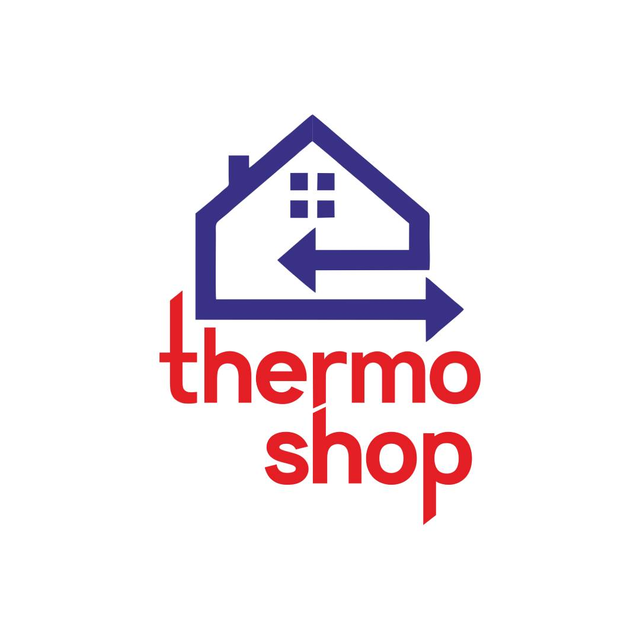
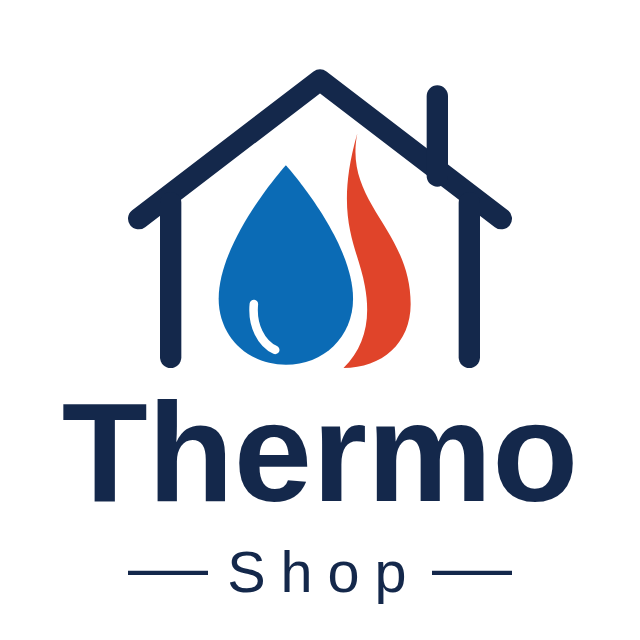
Add files via upload

diff --git a/index.html b/index.html
@@ -7,7 +7,7 @@
 <script src="https://telegram.org/js/telegram-web-app.js"></script>
 <link rel="preconnect" href="https://fonts.googleapis.com">
 <link rel="preconnect" href="https://fonts.gstatic.com" crossorigin>
-<link href="https://fonts.googleapis.com/css2?family=Archivo:wght@500;600;700;800&family=Inter:wght@400;500;600&display=swap" rel="stylesheet">
+<link href="https://fonts.googleapis.com/css2?family=Archivo:wght@500;600;700;800&family=Inter:wght@400;500;600&family=Montserrat:wght@500;800&display=swap" rel="stylesheet">
 <style>
   :root {
     --bg: #12181F;
@@ -79,7 +79,7 @@
     height: 68px;
     display: flex; align-items: center;
   }
-  .brand-logo img { height: 100%; width: auto; display: block; }
+  .brand-logo .lg { height: 100%; width: auto; aspect-ratio: 400 / 510; }
   .brand-name { font-size: 17px; font-weight: 700; font-family: 'Archivo', sans-serif; }
   .brand-sub { font-size: 11px; color: var(--text-dim); margin-top: 1px; }
 
@@ -316,11 +316,40 @@
     position: fixed; inset: 0; z-index: 100;
     background: #fff;
     display: flex; align-items: center; justify-content: center;
-    animation: splash-out 0.45s ease 1.1s forwards;
+    animation: splash-out 0.45s ease 3.5s forwards;
+    cursor: pointer;
   }
-  .splash img { width: min(46vw, 200px); height: auto; animation: splash-in 0.5s ease both; }
-  @keyframes splash-in { from { opacity: 0; transform: scale(0.92); } to { opacity: 1; transform: scale(1); } }
+  .splash.skip { display: none; }
+  .splash .lg { width: min(80vw, 420px); height: auto; }
   @keyframes splash-out { to { opacity: 0; visibility: hidden; } }
+  @media (prefers-reduced-motion: reduce) { .splash { animation-delay: 0.6s; } }
+
+  /* ---------- Logotip (animatsiyali) ---------- */
+  .lg { --lg-navy: #14284b; --lg-blue: #0b6bb5; --lg-red: #e0442a; overflow: visible; display: block; }
+  .lg .draw { stroke-dasharray: 1; stroke-dashoffset: 1; }
+  .lg .drop, .lg .flame, .lg .hl, .lg .t1, .lg .t2, .lg .ln { opacity: 0; }
+  .lg .drop, .lg .flame, .lg .flame-sway, .lg .t1, .lg .t2 { transform-box: fill-box; }
+  .lg .drop, .lg .flame, .lg .flame-sway { transform-origin: 50% 100%; }
+  .lg.play .h1 { animation: lg-draw .9s ease-out .1s forwards; }
+  .lg.play .h2, .lg.play .h3 { animation: lg-draw .5s ease-out .8s forwards; }
+  .lg.play .h4 { animation: lg-draw .4s ease-out 1.1s forwards; }
+  .lg.play .drop { animation: lg-drop .9s cubic-bezier(.2,1.4,.4,1) 1.3s forwards; }
+  .lg.play .flame { animation: lg-flame .9s cubic-bezier(.2,1.3,.4,1) 1.55s forwards; }
+  .lg.play .hl { animation: lg-fade .4s ease 2.1s forwards; }
+  .lg.play .flame-sway { animation: lg-sway 2.4s ease-in-out 2.6s infinite; }
+  .lg.play .t1 { animation: lg-rise .7s ease-out 2.0s forwards; }
+  .lg.play .ln { animation: lg-fade .5s ease 2.6s forwards; }
+  .lg.play .t2 { animation: lg-track 1s ease-out 2.6s forwards; }
+  .lg.static .draw { stroke-dashoffset: 0; }
+  .lg.static .drop, .lg.static .flame, .lg.static .hl, .lg.static .t1, .lg.static .t2, .lg.static .ln { opacity: 1; }
+  @keyframes lg-draw { to { stroke-dashoffset: 0; } }
+  @keyframes lg-drop { 0% { opacity: 0; transform: translateY(-70px) scale(.5); } 60% { opacity: 1; } 100% { opacity: 1; transform: none; } }
+  @keyframes lg-flame { 0% { opacity: 0; transform: scale(.2,.1); } 100% { opacity: 1; transform: none; } }
+  @keyframes lg-fade { to { opacity: 1; } }
+  @keyframes lg-sway { 0%,100% { transform: skewX(0) scaleY(1); } 50% { transform: skewX(-3deg) scaleY(1.04); } }
+  @keyframes lg-rise { from { opacity: 0; transform: translateY(24px); } to { opacity: 1; transform: none; } }
+  @keyframes lg-track { from { opacity: 0; letter-spacing: 34px; } to { opacity: 1; letter-spacing: 14px; } }
+  @media (prefers-reduced-motion: reduce) { .lg.play * { animation-duration: .01s !important; animation-delay: 0s !important; } }
 
   .top-actions { display: flex; align-items: center; gap: 8px; }
   .lang-btn {
@@ -378,11 +407,47 @@
 </head>
 <body>
 
-<div class="splash"><img src="images/logo.png" alt="Thermoshop"></div>
+<div class="splash" id="splash"><svg class="lg play" viewBox="0 0 600 600" role="img" aria-label="Thermo Shop">
+  <g fill="none" stroke="var(--lg-navy)" stroke-width="20" stroke-linecap="round" stroke-linejoin="round">
+    <polyline class="draw h1" pathLength="1" points="130,205 300,75 470,205"/>
+    <line class="draw h2" pathLength="1" x1="160" y1="190" x2="160" y2="335"/>
+    <line class="draw h3" pathLength="1" x1="440" y1="190" x2="440" y2="335"/>
+    <line class="draw h4" pathLength="1" x1="410" y1="90" x2="410" y2="165"/>
+  </g>
+  <g class="drop">
+    <path d="M268 155 C268 155 205 225 205 280 C205 316 233 342 268 342 C303 342 331 316 331 280 C331 225 268 155 268 155Z" fill="var(--lg-blue)"/>
+  </g>
+  <path class="hl" d="M238 285 C236 305 245 322 258 328" fill="none" stroke="#fff" stroke-width="8" stroke-linecap="round"/>
+  <g class="flame"><g class="flame-sway">
+    <path d="M335 125 C322 190 385 215 385 285 C385 322 358 345 322 345 C342 325 348 300 342 268 C336 232 312 205 335 125Z" fill="var(--lg-red)"/>
+  </g></g>
+  <text class="t1" x="300" y="470" text-anchor="middle" font-weight="800" font-size="132" fill="var(--lg-navy)" font-family="Montserrat,'Segoe UI',Arial,sans-serif">Thermo</text>
+  <line class="ln" x1="120" y1="537" x2="195" y2="537" stroke="var(--lg-navy)" stroke-width="4"/>
+  <line class="ln" x1="405" y1="537" x2="480" y2="537" stroke="var(--lg-navy)" stroke-width="4"/>
+  <text class="t2" x="304" y="555" text-anchor="middle" font-weight="500" font-size="54" letter-spacing="14" fill="var(--lg-navy)" font-family="Montserrat,'Segoe UI',Arial,sans-serif">Shop</text>
+</svg></div>
 
 <header class="topbar">
   <div class="brand">
-    <div class="brand-logo"><img src="images/logo.png" alt="Thermoshop"></div>
+    <div class="brand-logo"><svg class="lg static" viewBox="100 60 400 510" role="img" aria-label="Thermo Shop">
+  <g fill="none" stroke="var(--lg-navy)" stroke-width="20" stroke-linecap="round" stroke-linejoin="round">
+    <polyline class="draw h1" pathLength="1" points="130,205 300,75 470,205"/>
+    <line class="draw h2" pathLength="1" x1="160" y1="190" x2="160" y2="335"/>
+    <line class="draw h3" pathLength="1" x1="440" y1="190" x2="440" y2="335"/>
+    <line class="draw h4" pathLength="1" x1="410" y1="90" x2="410" y2="165"/>
+  </g>
+  <g class="drop">
+    <path d="M268 155 C268 155 205 225 205 280 C205 316 233 342 268 342 C303 342 331 316 331 280 C331 225 268 155 268 155Z" fill="var(--lg-blue)"/>
+  </g>
+  <path class="hl" d="M238 285 C236 305 245 322 258 328" fill="none" stroke="#fff" stroke-width="8" stroke-linecap="round"/>
+  <g class="flame"><g class="flame-sway">
+    <path d="M335 125 C322 190 385 215 385 285 C385 322 358 345 322 345 C342 325 348 300 342 268 C336 232 312 205 335 125Z" fill="var(--lg-red)"/>
+  </g></g>
+  <text class="t1" x="300" y="470" text-anchor="middle" font-weight="800" font-size="132" fill="var(--lg-navy)" font-family="Montserrat,'Segoe UI',Arial,sans-serif">Thermo</text>
+  <line class="ln" x1="120" y1="537" x2="195" y2="537" stroke="var(--lg-navy)" stroke-width="4"/>
+  <line class="ln" x1="405" y1="537" x2="480" y2="537" stroke="var(--lg-navy)" stroke-width="4"/>
+  <text class="t2" x="304" y="555" text-anchor="middle" font-weight="500" font-size="54" letter-spacing="14" fill="var(--lg-navy)" font-family="Montserrat,'Segoe UI',Arial,sans-serif">Shop</text>
+</svg></div>
   </div>
   <div class="top-actions">
   <div class="lang-btn" id="langBtn"><svg viewBox="0 0 24 24" fill="none" stroke="currentColor" stroke-width="2" stroke-linecap="round"><circle cx="12" cy="12" r="9"/><path d="M3 12h18M12 3c3 3.2 3 14.8 0 18M12 3c-3 3.2-3 14.8 0 18"/></svg><span id="langCode">RU</span></div>
@@ -477,7 +542,7 @@ const tg = window.Telegram ? window.Telegram.WebApp : null;
 if (tg) {
   tg.ready(); tg.expand();
   try { tg.setHeaderColor('#ffffff'); tg.setBackgroundColor('#ffffff'); } catch (e) {}
-  setTimeout(() => { try { tg.setHeaderColor('#12181F'); tg.setBackgroundColor('#12181F'); } catch (e) {} }, 1100);
+  setTimeout(() => { try { tg.setHeaderColor('#12181F'); tg.setBackgroundColor('#12181F'); } catch (e) {} }, 3500);
 }
 
 // ---------------- ПРИМЕРНЫЕ ТОВАРЫ — замените на реальные ----------------
@@ -764,6 +829,9 @@ function applyLang() {
   renderCats(); renderGrid(); renderCartUI(); renderProfileUI();
   if (sheet.classList.contains('open') && sheetId) openSheet(sheetId);
 }
+// ---- Ochilish ekranini bosib o'tkazib yuborish
+document.getElementById('splash').addEventListener('click', function () { this.classList.add('skip'); if (tg) { try { tg.setHeaderColor('#12181F'); tg.setBackgroundColor('#12181F'); } catch (e) {} } });
+
 // ---- Profil (ro'yxatdan o'tish)
 const esc = (v) => String(v).replace(/[&<>"']/g, c => ({ '&': '&amp;', '<': '&lt;', '>': '&gt;', '"': '&quot;', "'": '&#39;' }[c]));
 function loadProfile() {
